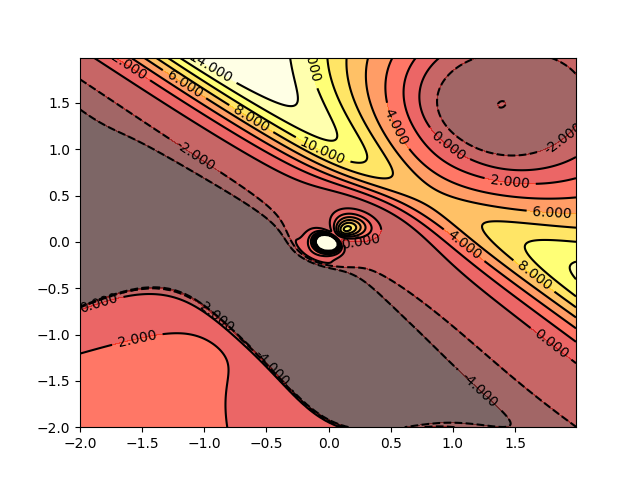
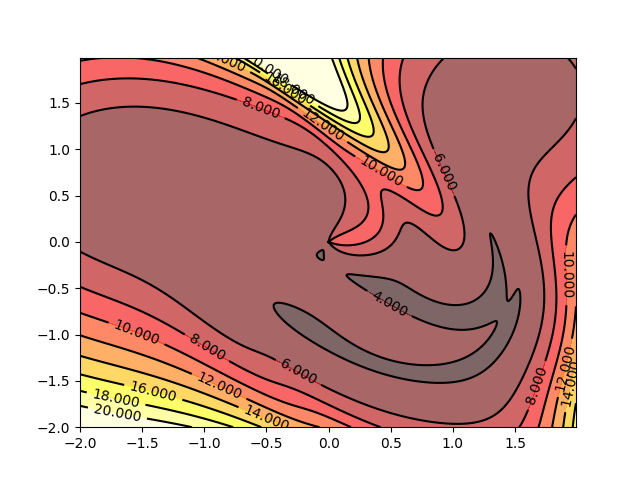
change the energy function

diff --git a/dagmm.py b/dagmm.py
@@ -1,12 +1,11 @@
 '''
 Deep Autoencoding Gaussian Mixture Model
 '''
-
+import time
 import numpy as np
 
 import tensorflow as tf
-from tensorflow.keras.layers import Dense 
-from tensorflow.keras.models import Sequential
+from tensorflow.layers import Dense 
 
 class DAGMM:
     def __init__(self, xdim):
@@ -17,87 +16,104 @@ class DAGMM:
         lambda1  -->  energy_loss weight
         lambda2  -->  sigma_diag_loss weight
         '''
-        self.lambda1 = 0.1
-        self.lambda2 = 0.0001
-        self.sess = tf.Session()
-        self.D = D = 3
-        self.K = K = 4
-        self.xdim = xdim
-
-        self.encoder = Sequential([
-            Dense(16, activation='tanh', input_shape=(xdim,)),
-            Dense(8,  activation='tanh'),
-            Dense(1)])
-
-        self.decoder = Sequential([
-            Dense(8,  activation='tanh', input_shape=(1,)),
-            Dense(16, activation='tanh'),
-            Dense(xdim)
-        ])
-
-        self.estimation = Sequential([
-            Dense(8, activation='tanh', input_shape=(D,)),
-            Dense(K, activation='softmax')
-        ])
+        lambda1 = 0.1
+        lambda2 = 0.0001
+        D = 3
+        K = 4
         
-        # GMM param for test
-        self.phi   = tf.Variable(tf.zeros(shape=[K]),     dtype=tf.float32, name='phi')
-        self.mu    = tf.Variable(tf.zeros(shape=[K,D]),   dtype=tf.float32, name='mu')
-        self.sigma = tf.Variable(tf.zeros(shape=[K,D,D]), dtype=tf.float32, name='sigma')
-        self.L     = tf.Variable(tf.zeros(shape=[K,D,D]), dtype=tf.float32, name='L')
-       
-        self.forward()
+        # Placeholder
+        x1 = tf.placeholder(tf.float32, shape=[None, xdim])
 
-    def forward(self):
-        ''' Build Graph
-        '''
-        tf.set_random_seed(123)
+        # Encoder
+        x = Dense(16, activation='tanh', name='en-fc1')(x1)
+        x = Dense(8, activation='tanh', name='en-fc2')(x)
+        z1 = Dense(1, activation='tanh', name='en-fc3')(x)
 
-        x = tf.placeholder(dtype=tf.float32, shape=[None, self.xdim])
-        z_c = self.encoder(x)
-        x2 = self.decoder(z_c)
-        z = self.generate_z(x, x2, z_c)
-        gamma = self.estimation(z)
-        phi, mu, sigma, L = self.estimate_gmm(gamma, z)
-        tr_energy = self.energy(z, [phi, mu, sigma, L])
-        te_energy = self.energy(z, None)
+        # Decoder
+        x = Dense(8, activation='tanh', name='de-fc1')(z1)
+        x = Dense(16, activation='tanh', name='de-fc2')(x)
+        x2 = Dense(xdim, name='de-fc3')(x)
+
+        # Concat Z
+        dist_cos = tf.reduce_sum(x1*x2, axis=1, keep_dims=True) / \
+                (tf.norm(x1, axis=1, keep_dims=True) * tf.norm(x2, axis=1, keep_dims=True))
+        dist_euc = tf.norm(x1-x2, axis=1, keep_dims=True)
+        z = tf.concat([z1, dist_cos, dist_euc], axis=1)
+        
+        # Estimation
+        x = Dense(8, activation='tanh')(z)
+        gamma = Dense(K, activation='softmax')(x) # K
+        
+        # Calculate GMM param
+        gamma_sum = tf.reduce_sum(gamma, axis=0)
+        phi = tf.reduce_mean(gamma, axis=0)
+        mu = tf.einsum('ik,il->kl', gamma, z) / gamma_sum[:,None]
+        z_centered = tf.sqrt(gamma[:,:,None]) * (z[:,None,:] - mu[None,:,:])
+        sigma = tf.einsum(
+                'ikl,ikm->klm', z_centered, z_centered) / gamma_sum[:,None,None]
+
+        phi2   = tf.Variable(tf.zeros(shape=[K]),     dtype=tf.float32, name='phi')
+        mu2    = tf.Variable(tf.zeros(shape=[K,D]),   dtype=tf.float32, name='mu')
+        sigma2 = tf.Variable(tf.zeros(shape=[K,D,D]), dtype=tf.float32, name='sigma')
 
         fix_gmm_op = tf.group(
-            tf.assign(self.phi, phi),
-            tf.assign(self.mu, mu),
-            tf.assign(self.sigma, sigma),
-            tf.assign(self.L, L)
+            tf.assign(phi2,   phi),
+            tf.assign(mu2,    mu),
+            tf.assign(sigma2, sigma),
         )
-        loss3 = self.lambda2 * tf.reduce_sum(tf.divide(1, tf.matrix_diag_part(sigma)))
-        loss2 = self.lambda1 * tf.reduce_mean(tr_energy)
-        loss1 = tf.reduce_mean(tf.reduce_sum(tf.square(x-x2), axis=1), axis=0)
+        
+        # Energy
+        tr_energy = self.energy(z, [phi, mu, sigma])
+        te_energy = self.energy(z, [phi2, mu2, sigma2])
+       
+        # Loss
+        loss3 = lambda2 * tf.reduce_sum(tf.divide(1, tf.matrix_diag_part(sigma)))
+        loss2 = lambda1 * tf.reduce_mean(tr_energy)
+        loss1 = tf.reduce_mean(tf.reduce_sum(tf.square(x1-x2), axis=1), axis=0)
         loss = loss1 + loss2 + loss3
         trainop = tf.train.AdamOptimizer(0.0001).minimize(loss)
-        self.sess.run(tf.global_variables_initializer())
- 
-        self.x = x
+        
+        sess = tf.Session()
+        sess.run(tf.global_variables_initializer())
+        
+        self.sess = sess
+        self.x1 = x1
         self.x2 = x2
         self.tr_energy = tr_energy
         self.te_energy = te_energy
         self.loss = loss
-        self.loss1 = loss1
-        self.loss2 = loss2
-        self.loss3 = loss3
+        self.loss_list = [loss1, loss2, loss3]
         self.trainop = trainop
         self.fix_gmm_op = fix_gmm_op
 
     def energy(self, z, gmm_param):
+        # phi   K
+        # mu    K,D
+        # sigma K,D,D
+        phi, mu, sigma = gmm_param
+        
+        # 能量函数log phi项
+        item1 = tf.expand_dims(tf.log(phi), axis=0) # 1,K
+        # 分子项
+        z_mu = z[:,None,:] - mu[None,:,:]           # N,K,D
+        sigma_inv = tf.matrix_inverse(sigma)        # K,D,D
+        item2 = -0.5*tf.reduce_sum(tf.reduce_sum(tf.expand_dims(z_mu,axis=-1)*tf.expand_dims(sigma_inv,axis=0), axis=-2) * z_mu, axis=-1) # N,K
+        # 分母项
+        sigma_det = tf.matrix_determinant(sigma_inv)
+        item3 = tf.expand_dims(tf.log(tf.sqrt(np.pi*2*sigma_det)), axis=0) # 1,K
+        energy = - tf.reduce_logsumexp(item1 + item2 - item3, axis=1)      # N
+        return energy
+
+    def energy2(self, z, gmm_param):
         '''
-        Instead of inverse covariance matrix, exploit cholesky decomposition
-        for stability of calculation.
+        The function of `energy2` is the same as `energy`
         '''
-        if gmm_param is not None:
-            phi, mu, sigma, L = gmm_param
-        else:
-            mu      = self.mu
-            phi     = self.phi
-            sigma   = self.sigma
-            L       = self.L
+        phi, mu, sigma = gmm_param
+        
+        n_features = z.shape[1]
+        min_vals = tf.diag(tf.ones(n_features, dtype=tf.float32)) * 1e-6
+        L = tf.cholesky(sigma + min_vals[None,:,:])
+
         z_centered = z[:,None,:] - mu[None,:,:]  #ikl
         v = tf.matrix_triangular_solve(L, tf.transpose(z_centered, [1, 2, 0]))  # kli
         log_det_sigma = 2.0 * tf.reduce_sum(tf.log(tf.matrix_diag_part(L)), axis=1)
@@ -106,48 +122,7 @@ class DAGMM:
                 + d * tf.log(2.0 * np.pi) + log_det_sigma[:,None])
         energies = - tf.reduce_logsumexp(logits, axis=0)
         return energies
-
-    def estimate_gmm(self, gamma, z):
-        ''' Estimate GMM param
-        '''
-        gamma_sum = tf.reduce_sum(gamma, axis=0)
-        phi = tf.reduce_mean(gamma, axis=0)
-        mu = tf.einsum('ik,il->kl', gamma, z) / gamma_sum[:,None]
-        z_centered = tf.sqrt(gamma[:,:,None]) * (z[:,None,:] - mu[None,:,:])
-        sigma = tf.einsum(
-                'ikl,ikm->klm', z_centered, z_centered) / gamma_sum[:,None,None]
-        # Calculate a cholesky decomposition of covariance in advance
-        n_features = z.shape[1]
-        min_vals = tf.diag(tf.ones(n_features, dtype=tf.float32)) * 1e-6
-        L = tf.cholesky(sigma + min_vals[None,:,:])
-        return phi, mu, sigma, L
-    
-    def generate_z(self, x, x2, z_c):
-        '''
-        Based on the original paper, features of reconstraction error
-        and zc are composed.
-
-        Input
-            x   : src sample
-            x2  : reconstruct sample
-            z_c : encoding vector
-        Output
-            z = [Euclidean distance, cosine similarity, z_c]
-        '''
-
-        def euclid_norm(x):
-            return tf.sqrt(tf.reduce_sum(tf.square(x), axis=1))
         
-        norm_x = euclid_norm(x)
-        norm_x2 = euclid_norm(x2)
-        dist_x = euclid_norm(x - x2)
-        dot_x = tf.reduce_sum(x * x2, axis=1)
-        
-        min_val = 1e-3
-        loss_E = dist_x  / (norm_x + min_val)
-        loss_C = 0.5 * (1.0 - dot_x / (norm_x * norm_x2 + min_val))
-        return tf.concat([z_c, loss_E[:,None], loss_C[:,None]], axis=1)
-    
     def fit(self, x, batchsize, epochs, log_skip):
         ''' Fit on the training dataset
         '''
@@ -155,18 +130,21 @@ class DAGMM:
             perm = np.random.permutation(x.shape[0])
             for batch in range(0, x.shape[0], batchsize):
                 xbatch = x[perm[batch:batch+batchsize]]
-                self.sess.run(self.trainop, feed_dict={self.x:xbatch})
+                self.sess.run(self.trainop, feed_dict={self.x1:xbatch})
             
             if e%log_skip == 0:
-                loss, loss1, loss2, loss3, x2 = self.sess.run(
-                    [self.loss, self.loss1, self.loss2, self.loss3, self.x2], feed_dict={self.x:x})
-                print('epoch {}, loss {:.2f} {:.2f} {:.2f} {:.2f}'.format(e, loss, loss1, loss2, loss3))
+                print(time.time())
+                loss, loss_list= self.sess.run(
+                    [self.loss, self.loss_list], feed_dict={self.x1:x})
+                print('epoch {}, loss {:.2f} {:.2f} {:.2f} {:.2f}'.format( \
+                    e, loss, loss_list[0], loss_list[1], loss_list[2]))
         # Fix the gmm param
-        self.sess.run(self.fix_gmm_op, feed_dict={self.x:x})
+        self.sess.run(self.fix_gmm_op, feed_dict={self.x1:x})
 
     def predict(self, x):
         # fix gmm op
-        output = self.sess.run(self.te_energy, feed_dict={self.x:x})
+        output = self.sess.run(self.te_energy, feed_dict={self.x1:x})
         return output
 
-
+if __name__=='__main__':
+    model = DAGMM(5)

diff --git a/trian_toy.py b/trian_toy.py
@@ -24,7 +24,7 @@ plt.close()
 
 # Build model
 model = DAGMM(2)
-model.fit(data, 128, 1000, 100)
+model.fit(data, 128, 2000, 100)
 
 pred = model.predict(data)
 plt.plot(pred, 'o-')

diff --git a/README.md b/README.md
@@ -2,4 +2,16 @@
 
 Tensorflow implement for pather *DEEP AUTOENCODING GAUSSIAN MIXTURE MODEL FOR UNSUPERVISED ANOMALY DETECTION*
 
+这是一个简单的验证，数据集如下图：
+
+![](./images/data.png)
+
+其中有两个异常点，经过训练会发现这两个异常点的能量要比其他的点高，如下图
+
+![](images/pred.png)
+
+二维空间的能量分布情况如下图所示，可以看出，在训练集周围的的区域能量预测值较低，其他区域的预测值较高。
+
+![](./images/boundary.png)
+
 
